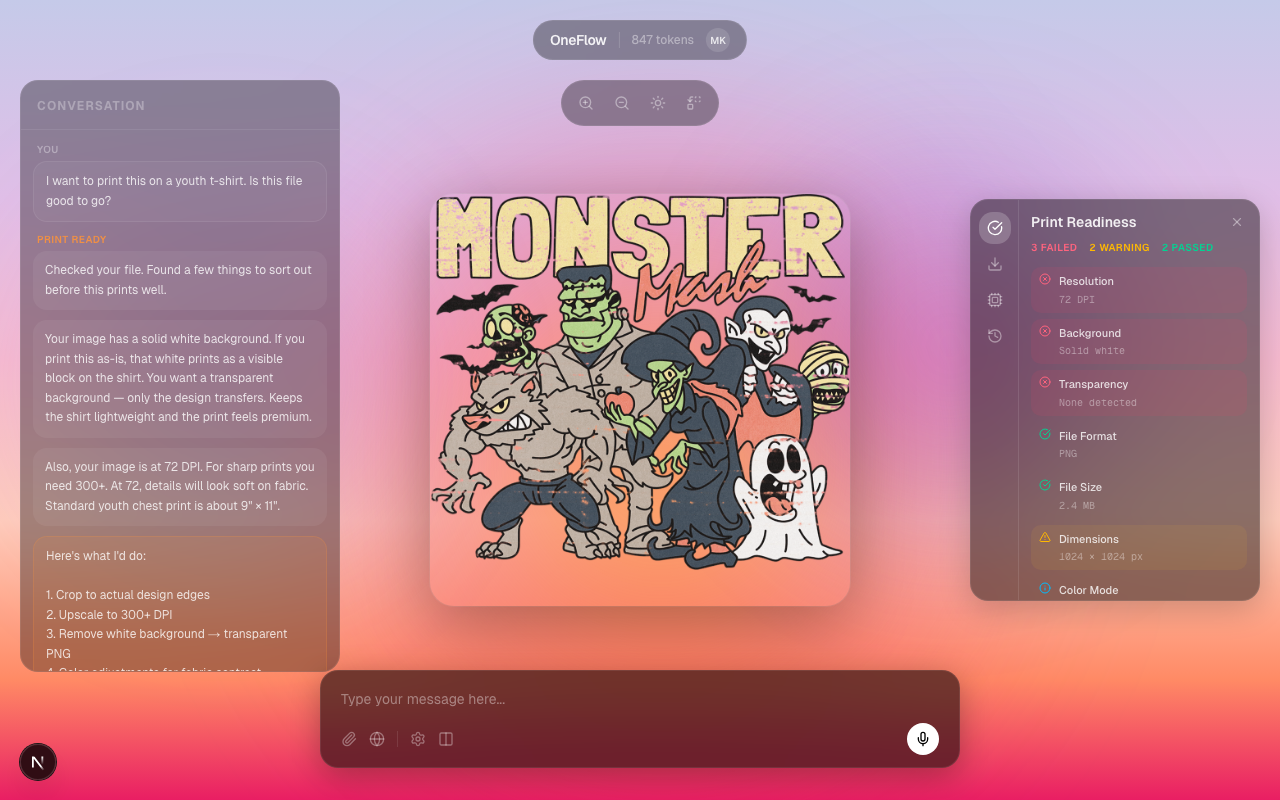
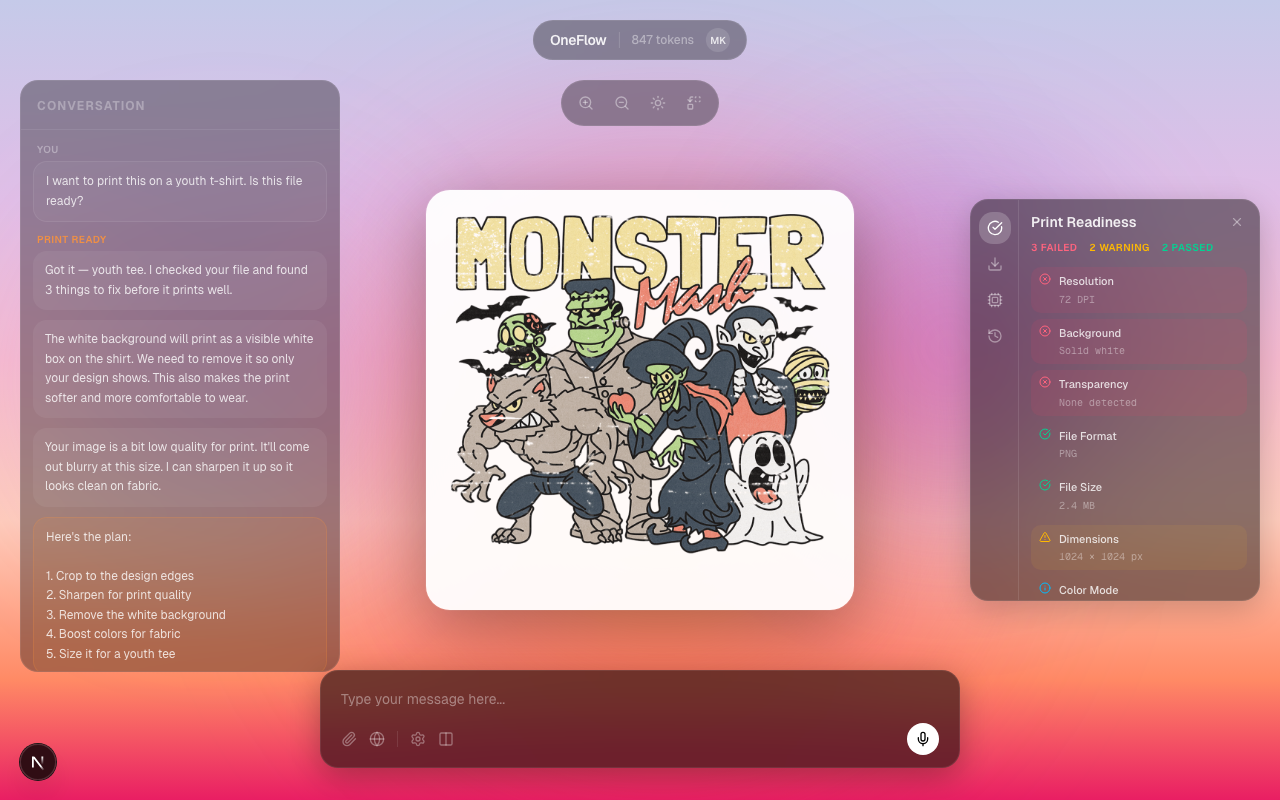
fix: solid bg on canvas image, concise humanized chat copy

Changed region(s): [[0.3125, 0.2188, 0.6875, 0.7812], [0.0312, 0.4062, 0.25, 0.8438], [0.0312, 0.3125, 0.25, 0.375]]

diff --git a/components/preview/chat-history.tsx b/components/preview/chat-history.tsx
@@ -9,28 +9,28 @@ interface Message {
 const MESSAGES: Message[] = [
   {
     role: "user",
-    text: "I want to print this on a youth t-shirt. Is this file good to go?",
+    text: "I want to print this on a youth t-shirt. Is this file ready?",
   },
   {
     role: "ai",
-    text: "Checked your file. Found a few things to sort out before this prints well.",
+    text: "Got it — youth tee. I checked your file and found 3 things to fix before it prints well.",
   },
   {
     role: "ai",
-    text: "Your image has a solid white background. If you print this as-is, that white prints as a visible block on the shirt. For most apparel — especially dark fabrics — you want a transparent background so only the design transfers. Keeps the shirt lightweight, breathable, and the print feels premium.",
+    text: "The white background will print as a visible white box on the shirt. We need to remove it so only your design shows. This also makes the print softer and more comfortable to wear.",
   },
   {
     role: "ai",
-    text: "I also see you want this on a youth tee. Standard youth full-front chest print is about 9\" wide × 11\" max height. Your image dimensions work, but it's currently at 72 DPI. For prints to come out sharp, you need 300 DPI or higher. At 72, the detail will look soft and blurry on fabric.",
+    text: "Your image is a bit low quality for print. It'll come out blurry at this size. I can sharpen it up so it looks clean on fabric.",
   },
   {
     role: "ai",
-    text: "Here's what I'd do:\n\n1. Crop the design to its actual edges\n2. Upscale to 300+ DPI for sharp output\n3. Remove the white background → transparent PNG\n4. Minor color adjustments so darks and lights pop on fabric\n5. Resize to 9\" × 11\" youth chest standard\n\nYou'll get a print-ready transparent PNG, sized exactly for a youth tee.",
+    text: "Here's the plan:\n\n1. Crop to the design edges\n2. Sharpen for print quality\n3. Remove the white background\n4. Boost colors for fabric\n5. Size it for a youth tee",
     type: "plan",
   },
   {
     role: "ai",
-    text: "Sound good? Hit Fix All to start.",
+    text: "You'll get a clean file, right size, ready to send to your printer. Hit Fix All and I'll handle it.",
   },
 ]
 
@@ -56,7 +56,6 @@ export function ChatHistory() {
       <div className="flex-1 overflow-y-auto px-3 py-3 flex flex-col gap-2.5">
         {MESSAGES.map((msg, i) => (
           <div key={i} className="flex flex-col gap-1">
-            {/* Only show label when role changes from previous */}
             {(i === 0 || MESSAGES[i - 1].role !== msg.role) && (
               <span
                 className="text-[10px] font-semibold uppercase tracking-wider px-1"

diff --git a/components/aurora/chat-history.tsx b/components/aurora/chat-history.tsx
@@ -9,28 +9,28 @@ interface Message {
 const MESSAGES: Message[] = [
   {
     role: "user",
-    text: "I want to print this on a youth t-shirt. Is this file good to go?",
+    text: "I want to print this on a youth t-shirt. Is this file ready?",
   },
   {
     role: "ai",
-    text: "Checked your file. Found a few things to sort out before this prints well.",
+    text: "Got it — youth tee. I checked your file and found 3 things to fix before it prints well.",
   },
   {
     role: "ai",
-    text: "Your image has a solid white background. If you print this as-is, that white prints as a visible block on the shirt. You want a transparent background — only the design transfers. Keeps the shirt lightweight and the print feels premium.",
+    text: "The white background will print as a visible white box on the shirt. We need to remove it so only your design shows. This also makes the print softer and more comfortable to wear.",
   },
   {
     role: "ai",
-    text: "Also, your image is at 72 DPI. For sharp prints you need 300+. At 72, details will look soft on fabric. Standard youth chest print is about 9\" × 11\".",
+    text: "Your image is a bit low quality for print. It'll come out blurry at this size. I can sharpen it up so it looks clean on fabric.",
   },
   {
     role: "ai",
-    text: "Here's what I'd do:\n\n1. Crop to actual design edges\n2. Upscale to 300+ DPI\n3. Remove white background → transparent PNG\n4. Color adjustments for fabric contrast\n5. Resize to 9\" × 11\" youth standard",
+    text: "Here's the plan:\n\n1. Crop to the design edges\n2. Sharpen for print quality\n3. Remove the white background\n4. Boost colors for fabric\n5. Size it for a youth tee",
     type: "plan",
   },
   {
     role: "ai",
-    text: "Sound good? Hit Fix All to start.",
+    text: "You'll get a clean file, right size, ready to send to your printer. Hit Fix All and I'll handle it.",
   },
 ]
 

diff --git a/app/editor/page.tsx b/app/editor/page.tsx
@@ -53,18 +53,19 @@ function ImageCanvas() {
   return (
     <div className="fixed inset-0 z-0 flex items-center justify-center">
       <div
-        className="rounded-2xl overflow-hidden"
+        className="rounded-2xl overflow-hidden bg-[#F5F2EC]"
         style={{
           boxShadow: "0 8px 32px rgba(0,0,0,0.12), 4px 4px 0px 0px rgba(26,26,26,0.15)",
           border: "2px solid #C4BFB4",
+          padding: "24px",
         }}
       >
         <Image
           src="https://baounngyxqighaipmxgc.supabase.co/storage/v1/object/public/assets/preview/design-preview.png"
           alt="Uploaded design — playful monster mash illustration"
-          width={480}
-          height={480}
-          className="object-contain"
+          width={420}
+          height={420}
+          className="object-contain rounded-xl"
           priority
         />
       </div>

diff --git a/app/aurora/editor/page.tsx b/app/aurora/editor/page.tsx
@@ -56,14 +56,16 @@ function ImageCanvas() {
         className="rounded-3xl overflow-hidden"
         style={{
           boxShadow: "0 16px 64px rgba(0,0,0,0.3), 0 0 0 1px rgba(255,255,255,0.1)",
+          backgroundColor: "rgba(255,255,255,0.95)",
+          padding: "24px",
         }}
       >
         <Image
           src="https://baounngyxqighaipmxgc.supabase.co/storage/v1/object/public/assets/preview/design-preview.png"
           alt="Uploaded design — playful monster mash illustration"
-          width={420}
-          height={420}
-          className="object-contain"
+          width={380}
+          height={380}
+          className="object-contain rounded-2xl"
           priority
         />
       </div>
